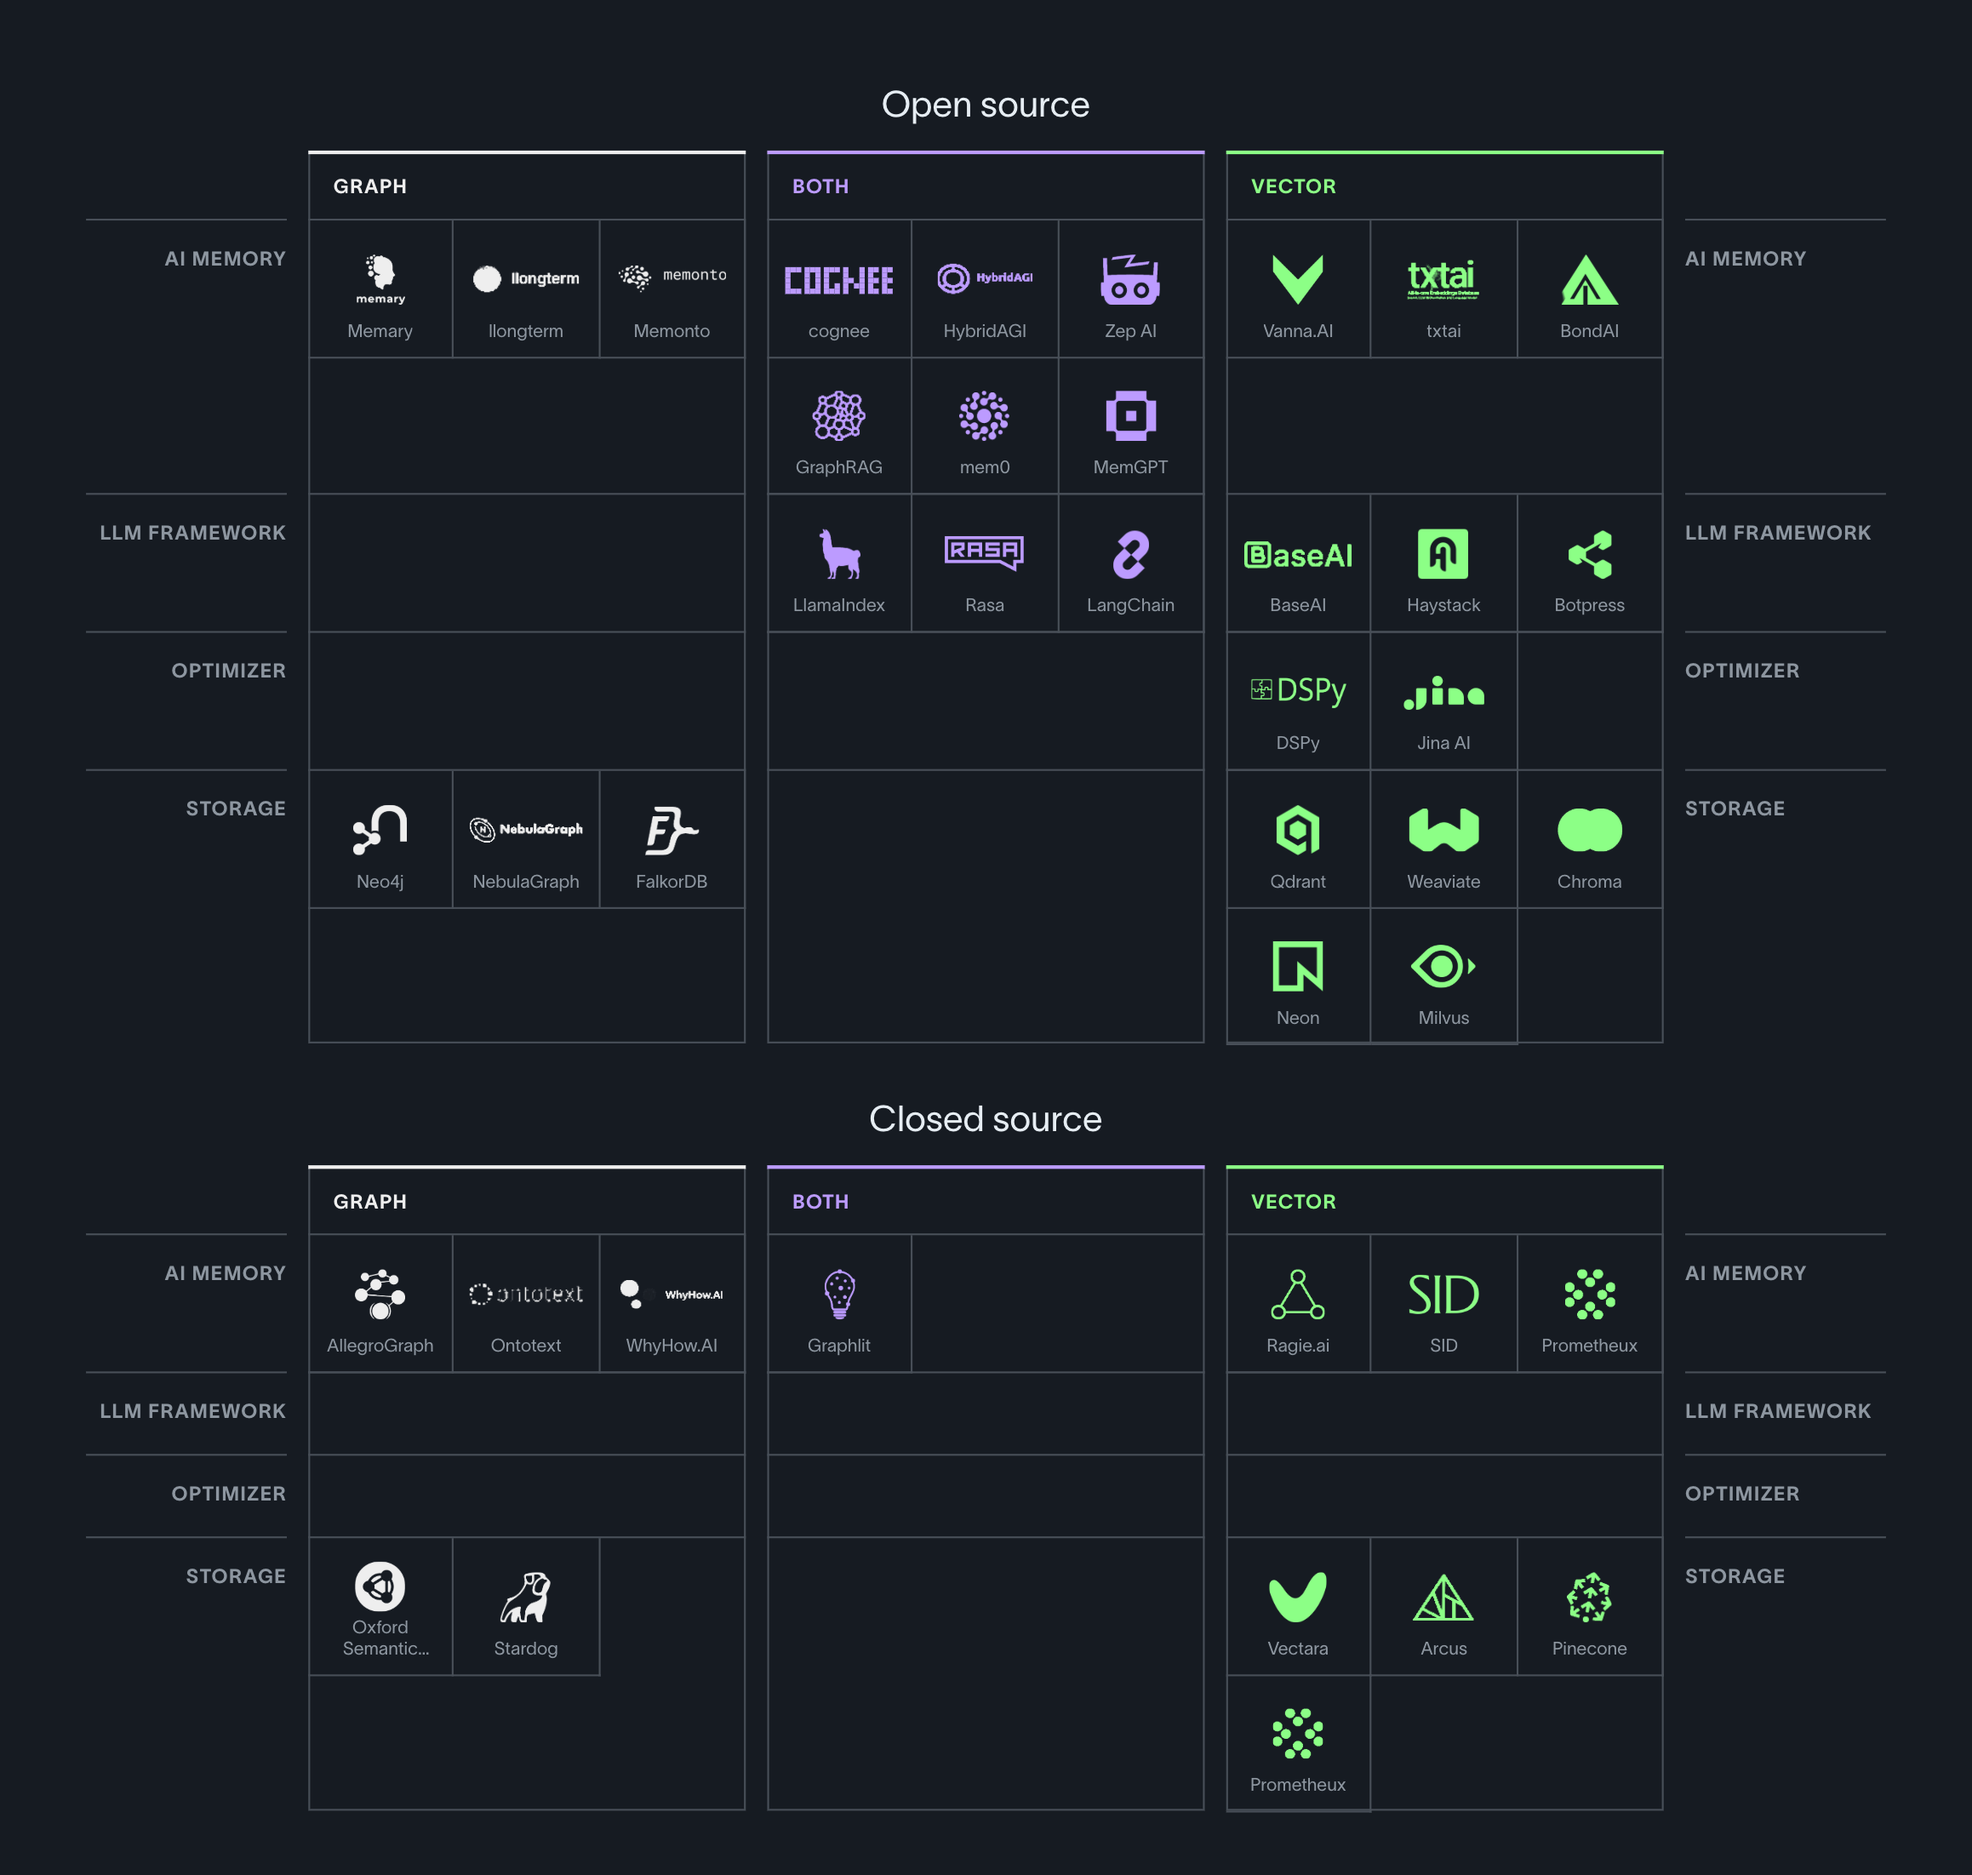
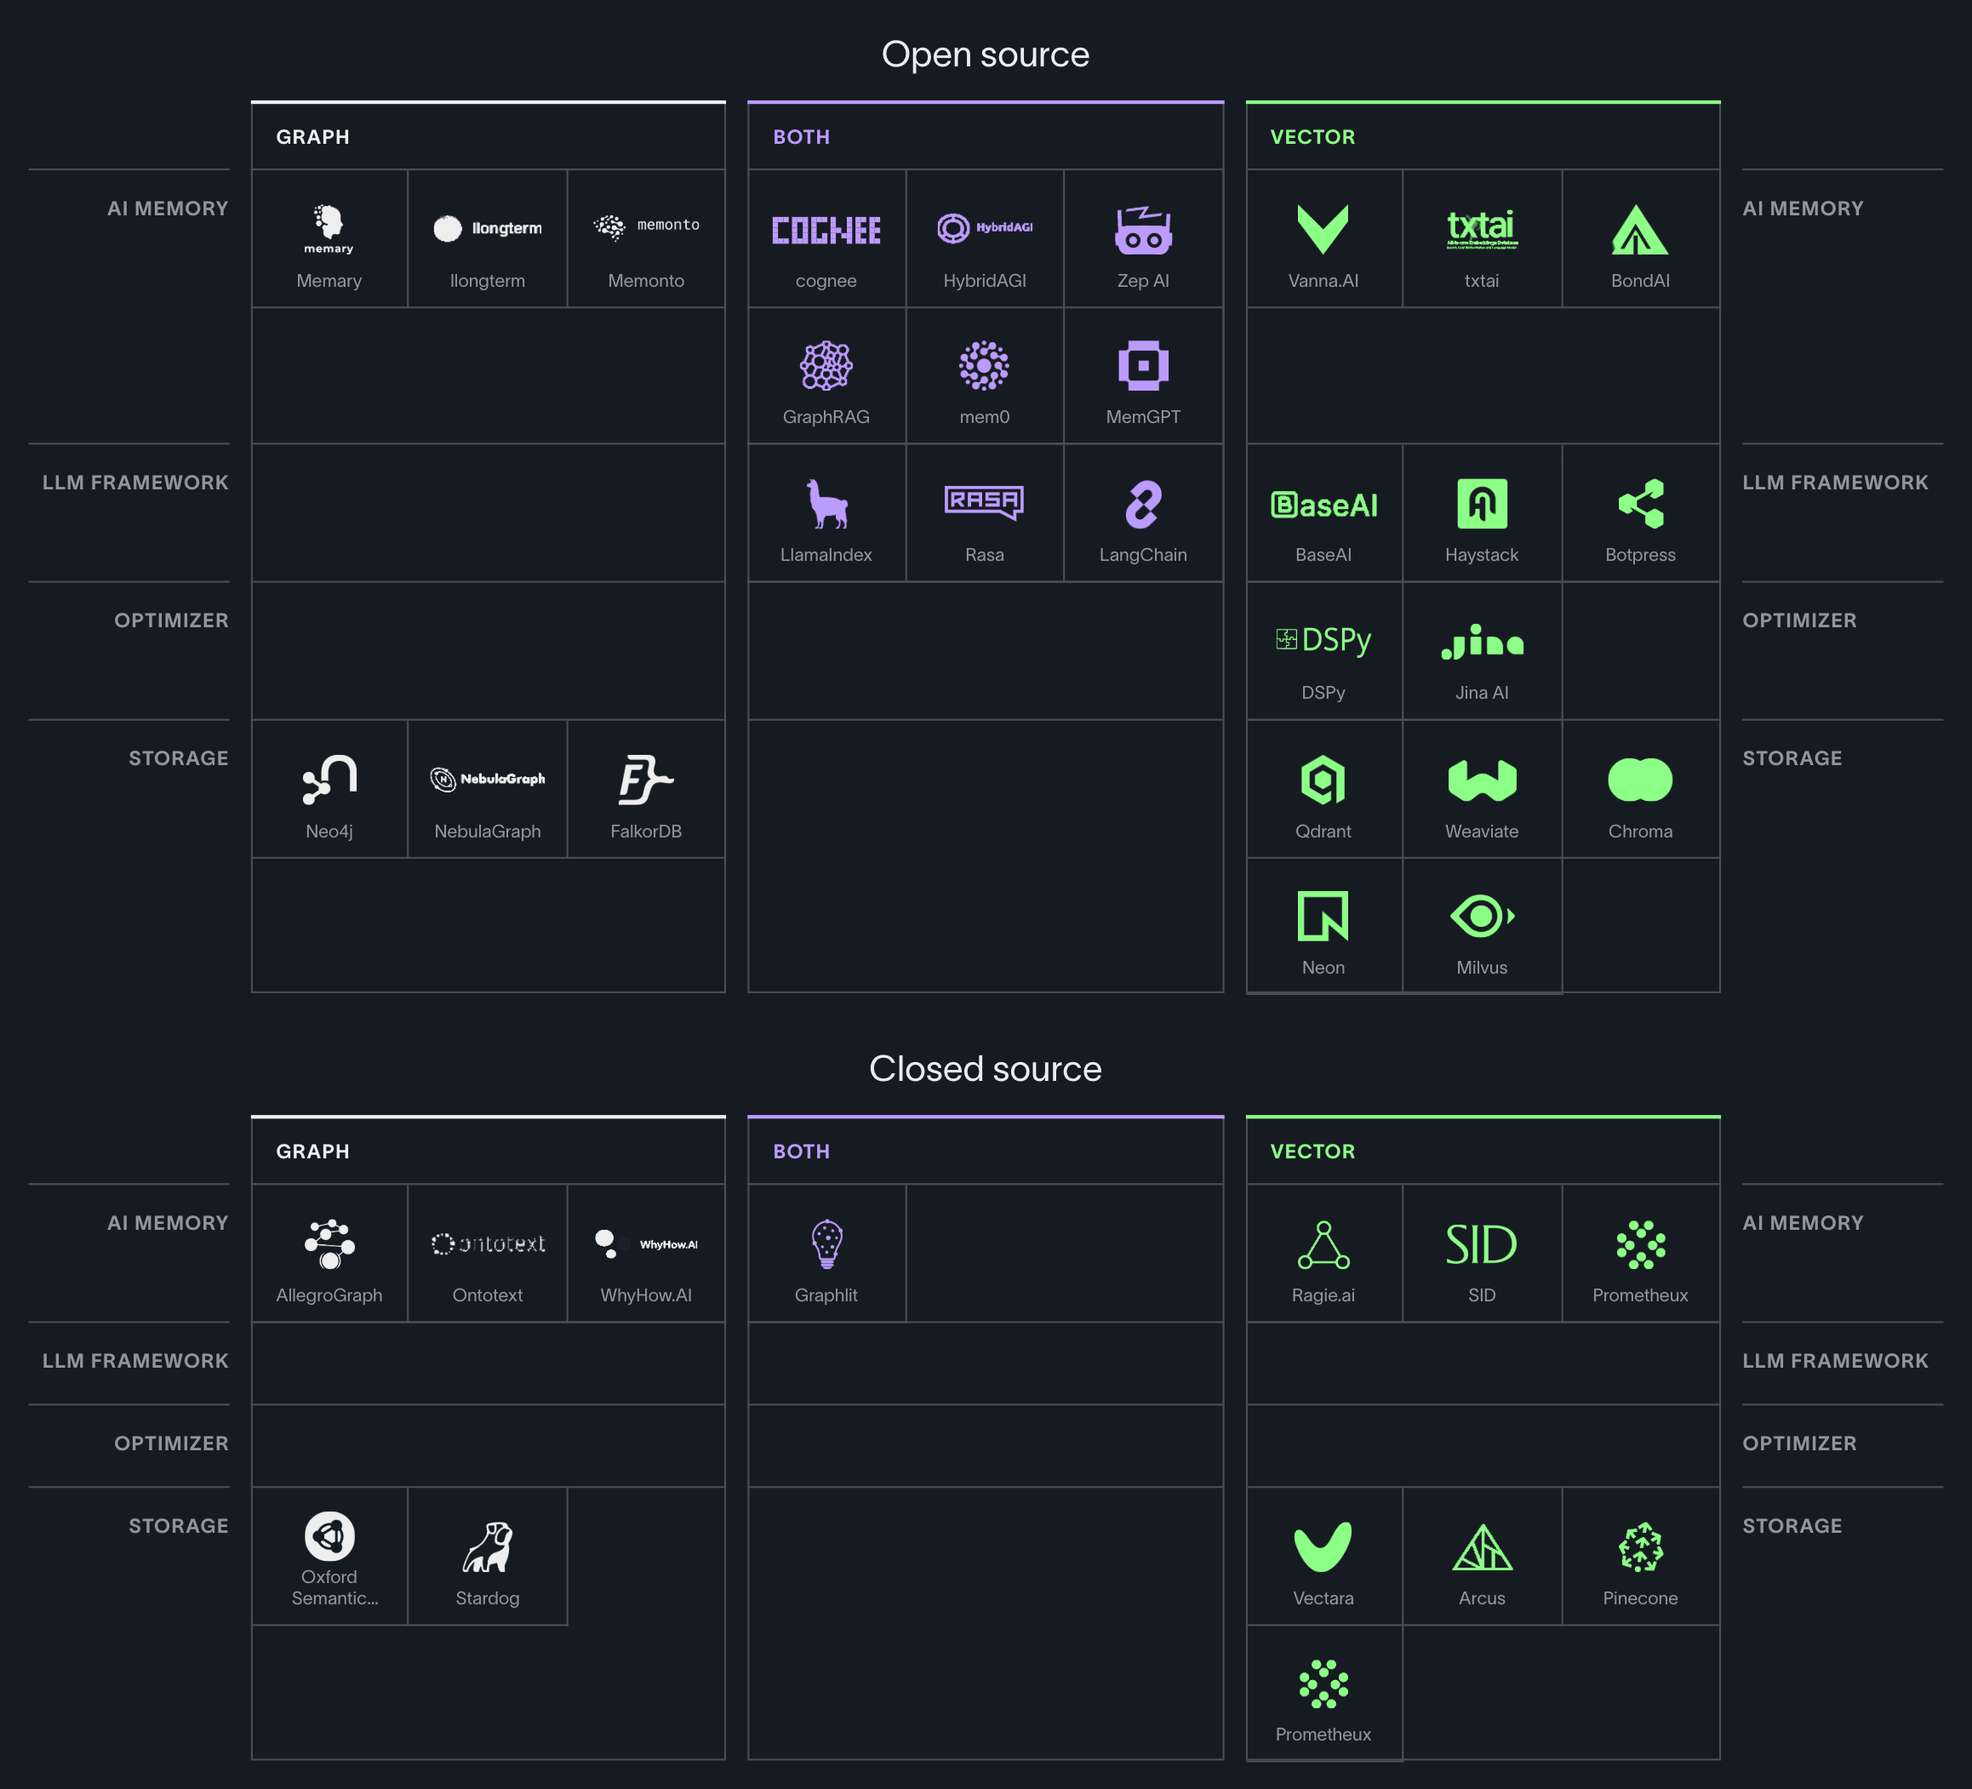
Landscape: a 16px safe space around the chart instead of 44-48px (CLO-1604)
The PNG is mostly content now: infographic_v8.png re-exported at
2317 x 2102.

diff --git a/assets/landscape/landscape.html b/assets/landscape/landscape.html
@@ -14,8 +14,8 @@
   Companies are DATA below; marks/ holds each one's mark in one colour, from its current logo (Simple Icons, the project's
   GitHub, README or site) or, where none was found, cut from infographic_v7.png. TWK Lausanne is licensed, so it is not in
   this repo: put TWKLausanne-300/700.woff2 in fonts/ (ignored by git) to preview and export. Export: open this page and
-  screenshot #chart at 2317 / 1100 device pixels per CSS pixel. The chart is 1100 wide and as tall as its content
-  (1046 now), so the PNG is 2317 wide (2317 × 2203 now).
+  screenshot #chart at 2317 / 1100 device pixels per CSS pixel. The chart is 1100 wide with a 16px safe space all round,
+  and as tall as its content (998 now), so the PNG is 2317 wide (2317 × 2102 now).
 -->
 <style>
 @font-face { font-family: TWKLausanne; font-weight: 300; src: local("TWK Lausanne Light"), url(fonts/TWKLausanne-300.woff2) format("woff2"); }
@@ -34,7 +34,7 @@
 }
 * { box-sizing: border-box; margin: 0; }
 body { background: #161b22; font-family: var(--font); color: var(--fg); -webkit-font-smoothing: antialiased; }
-#chart { width: 1100px;   /* as tall as its content */ padding: 44px 48px 36px; display: flex; flex-direction: column; background: var(--page) var(--grid); background-size: 16px 16px; }
+#chart { width: 1100px;   /* as tall as its content */ padding: 16px;   /* minimum safe space around the chart */ display: flex; flex-direction: column; background: var(--page) var(--grid); background-size: 16px 16px; }
 /* the label: 11/16, bold, uppercase, spaced (SectionLabel) */
 .label { font: 700 11px/16px var(--font); letter-spacing: .05em; text-transform: uppercase; }
 header { display: flex; justify-content: space-between; align-items: flex-start; gap: 32px; }
